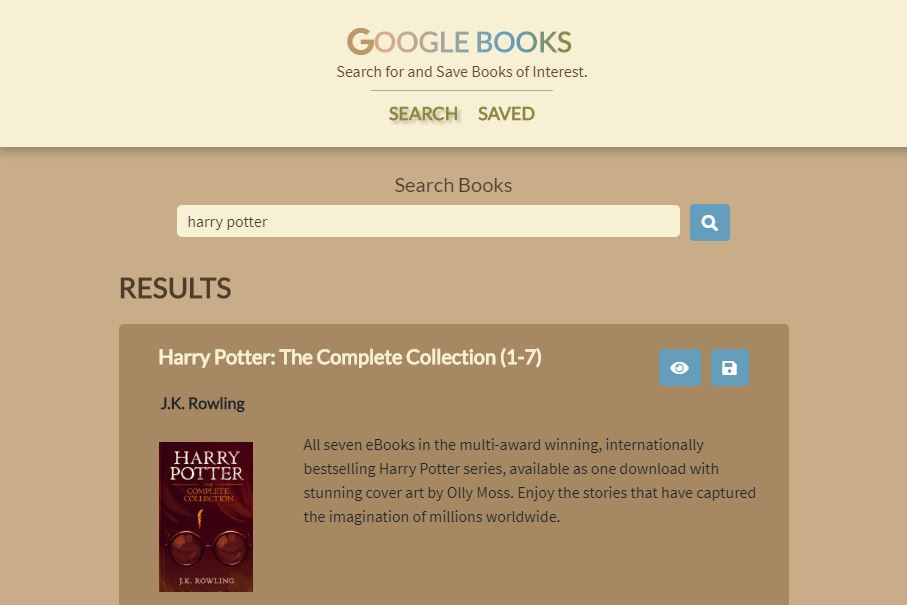
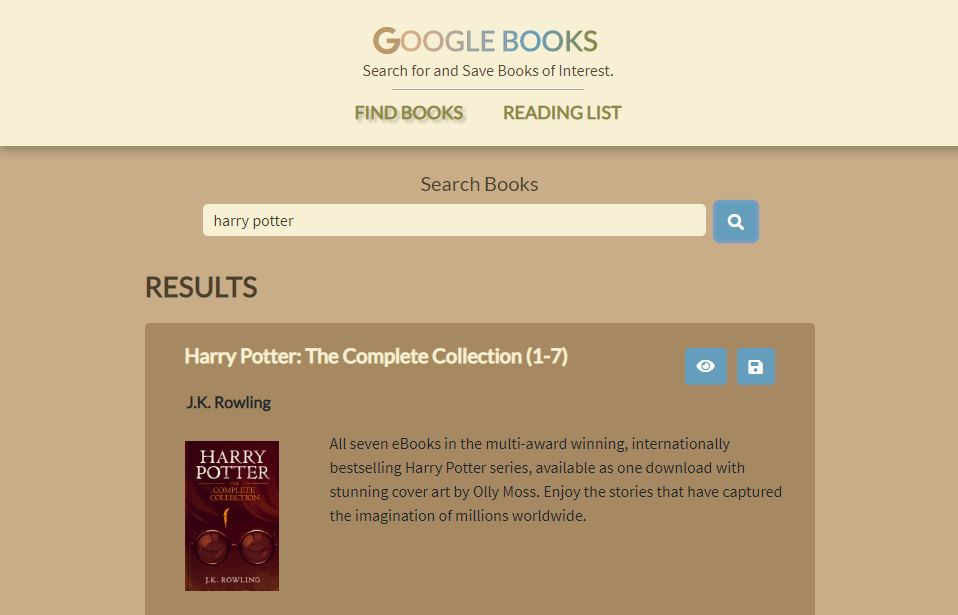
debugging issue with .map method in search results

diff --git a/client/src/components/SavedResults.js b/client/src/components/SavedResults.js
@@ -8,8 +8,8 @@ const SavedResults = () => {
     books: []
   });
 
+  //load saved books when component mounts
   useEffect(() => {
-    console.log("USE EFFECT WORKS!");
     API.getBooks()
       .then(res => {
         setSavedBooks({
@@ -19,30 +19,44 @@ const SavedResults = () => {
       .catch(err => console.log(err));
   }, []);
 
+  //delete book from db when user clicks X button
   const handleRemove = id => {
     API.deleteBook(id).then(res => {
-      console.log("DELETED!");
       console.log(res);
-      window.location.reload();
+
+      //reload page to remove book element
+      //window.location.reload() was not working on deployed site
+      //so I'm trying this:
+      window.location.href = window.location.href;
     });
   };
 
   return (
-    <div>
-      {savedBooks.books.map(book => {
-        return (
-          <BookResult
-            title={book.title}
-            authors={book.authors}
-            description={book.description}
-            image={book.image}
-            link={book.link}
-            onClick={() => {
-              handleRemove(book._id);
-            }}
-          />
-        );
-      })}
+    <div className="container resultsContainer">
+      <div className="row">
+        <div className="col-md-12 ">
+          <h3 className="resultsTitle">Saved Books</h3>
+        </div>
+        {savedBooks.books.map(book => {
+          return (
+            <BookResult
+              title={book.title}
+              description={book.description}
+              image={book.image}
+              link={book.link}
+              onClick={() => {
+                handleRemove(book._id);
+              }}
+            >
+              {book.authors.map(author => (
+                <p className="authorName" key={author}>
+                  {author}
+                </p>
+              ))}
+            </BookResult>
+          );
+        })}
+      </div>
     </div>
   );
 };

diff --git a/client/src/components/SearchResults.js b/client/src/components/SearchResults.js
@@ -1,5 +1,4 @@
 import React, { useState } from "react";
-
 import "./components.css";
 import API from "../utils/API";
 import BookResult from "./BookResult";
@@ -13,6 +12,7 @@ const SearchResults = () => {
     setSearchQuery(value);
   };
 
+  //get book results from Google Books API
   const handleFormSubmit = event => {
     event.preventDefault();
     API.searchBooks(searchQuery)
@@ -23,35 +23,29 @@ const SearchResults = () => {
       .catch(err => console.log(err));
   };
 
+  //post book info to db when user clicks save btn
   const handleSave = (title, authors, image, link, description) => {
-    let bookData = {
+    //create new book based on book model
+    let savedBook = {
       title: title,
       authors: authors,
       description: description,
       image: image,
       link: link
     };
-
-    console.log(bookData);
-
-    API.saveBook(bookData)
+    //and use saveBook method
+    API.saveBook(savedBook)
       .then(res => {
         console.log(res);
       })
       .catch(err => console.log(err));
   };
 
-  //   const handleView = event => {
-  //     console.log("Clicked View" + event);
-  //   };
-
   return (
     <div className="container resultsContainer">
       <div className="row searchRow">
         <div className="col-md-12 ">
           <h3 className="searchBooksText">Search Books</h3>
-          {/* </div>
-        <div className="col-md-12"> */}
           <form>
             <input
               className="searchForm"

diff --git a/client/src/components/Navbar.js b/client/src/components/Navbar.js
@@ -23,7 +23,7 @@ const Navbar = () => {
             className="navItem basic"
             to="/search"
           >
-            Search
+            Find Books
           </NavLink>
 
           <NavLink
@@ -32,7 +32,7 @@ const Navbar = () => {
             className="navItem basic"
             to="/saved"
           >
-            Saved
+            Reading List
           </NavLink>
         </div>
       </div>

diff --git a/client/src/components/BookResult.js b/client/src/components/BookResult.js
@@ -14,7 +14,6 @@ const BookResult = props => {
               }
             ></i>
           </button>
-
           <a
             className="btn btn-primary saveBtn"
             href={props.link}

diff --git a/client/src/components/components.css b/client/src/components/components.css
@@ -11,7 +11,7 @@
 
 .navItem {
   display: inline;
-  margin: 10px;
+  margin: 20px;
   color: #8d8741;
   font-weight: bold;
 }
